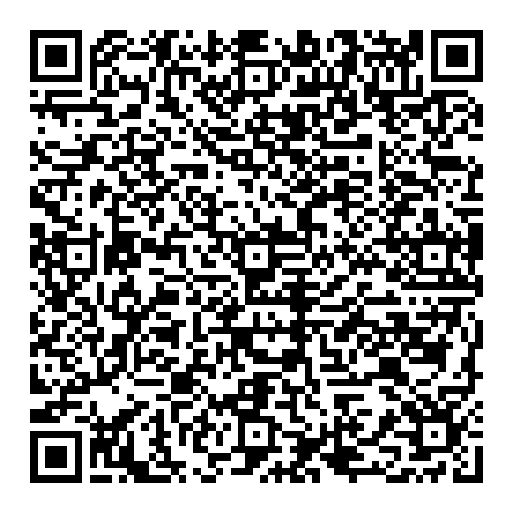
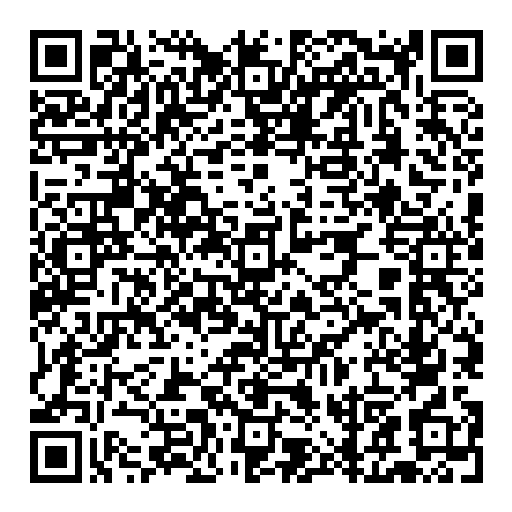
Fix WhatsApp connection based on La Frappe implementation, plus media upload & broadcast fixes

Changed region(s): [[0.0312, 0.0625, 0.9688, 0.9688]]

diff --git a/channels/WhatsAppSessionChannel.js b/channels/WhatsAppSessionChannel.js
@@ -1,36 +1,6 @@
-let Baileys;
-let makeWASocket;
-let useMultiFileAuthState, DisconnectReason, jidDecode, fetchLatestBaileysVersion, downloadMediaMessage;
-
-async function loadBaileys() {
-    if (Baileys) return;
-    const mod = await import('@whiskeysockets/baileys');
-    
-    // Check all possible places
-    console.log('[WA-Debug] Root keys count:', Object.keys(mod).length);
-    if (mod.default) console.log('[WA-Debug] Default keys count:', Object.keys(mod.default).length);
-    
-    // Find where the exported functions are
-    let target = null;
-    if (mod.useMultiFileAuthState) {
-        target = mod;
-    } else if (mod.default && mod.default.useMultiFileAuthState) {
-        target = mod.default;
-    } else {
-        // Fallback to searching in all keys if necessary or using the root
-        target = mod;
-    }
-    
-    Baileys = target;
-    makeWASocket = target.default || target;
-    useMultiFileAuthState = target.useMultiFileAuthState;
-    DisconnectReason = target.DisconnectReason;
-    jidDecode = target.jidDecode;
-    fetchLatestBaileysVersion = target.fetchLatestBaileysVersion;
-    downloadMediaMessage = target.downloadMediaMessage;
-    
-    console.log('[WA-Debug] useMultiFileAuthState type:', typeof useMultiFileAuthState);
-}
+const Baileys = require('@whiskeysockets/baileys');
+const makeWASocket = Baileys.default || Baileys;
+const { useMultiFileAuthState, DisconnectReason, jidDecode, fetchLatestBaileysVersion, downloadMediaMessage } = Baileys;
 
 
 const { Channel } = require('./Channel');
@@ -46,7 +16,6 @@ class WhatsAppSessionChannel extends Channel {
     constructor(config) {
         super('whatsapp', 'WhatsApp (Session)');
         this.sessionId = config.sessionId || 'default';
-        this.pairingNumber = config.pairingNumber || null;
         this.authFolder = path.resolve(process.cwd(), 'sessions', this.sessionId);
         this.sock = null;
         this.messageHandler = null;
@@ -54,7 +23,6 @@ class WhatsAppSessionChannel extends Channel {
     }
 
     async initialize() {
-        await loadBaileys();
         const sessionsDir = path.join(process.cwd(), 'sessions');
         if (!fs.existsSync(sessionsDir)) {
             fs.mkdirSync(sessionsDir, { recursive: true });
@@ -88,26 +56,11 @@ class WhatsAppSessionChannel extends Channel {
             version,
             auth: state,
             logger: pino({ level: 'silent' }),
-            browser: ['TIM', 'Chrome', '121.0.6167.85'], // Plus moderne
+            browser: ['Ubuntu', 'Chrome', '20.0.04'],
             printQRInTerminal: false
         });
 
-        // Request pairing code if requested and not registered
-        if (this.pairingNumber && !this.sock.authState.creds.registered) {
-            const cleanNumber = this.pairingNumber.replace(/\D/g, '');
-            console.log(`[WA] Requesting pairing code for ${cleanNumber}...`);
-            setTimeout(async () => {
-                try {
-                    const code = await this.sock.requestPairingCode(cleanNumber);
-                    console.log('\n--------------------------------------------------');
-                    console.log('🔑 VOTRE NOUVEAU CODE DE CONNEXION WHATSAPP :');
-                    console.log(`👉 ${code}`);
-                    console.log('--------------------------------------------------\n');
-                } catch (err) {
-                    console.error('❌ Erreur lors de la requête du code:', err.message);
-                }
-            }, 5000); // Augmenté un peu pour laisser la connexion se stabiliser
-        }
+        // No pairing code requested anymore to prioritize QR
 
 
         // this.store.bind(this.sock.ev); // Removed store bind

diff --git a/services/broadcast.js b/services/broadcast.js
@@ -59,7 +59,8 @@ async function broadcastMessage(platform, message, options = {}) {
     // 1. Upload des nouveaux médias vers Supabase Storage
     const normalizedExistingUrls = existingUrls.map(u => typeof u === 'string' ? { url: u, type: (u.match(/\.(mp4|mov|avi|wmv)$/) ? 'video' : 'photo') } : u);
     const unifiedMediaList = [...normalizedExistingUrls];
-    const { supabase } = require('../config/supabase');
+    const { uploadMediaBuffer } = require('./database');
+    
     for (let f of mediaFiles) {
         try {
             const extension = f.mimetype.includes('video') ? 'mp4' : (f.mimetype.includes('png') ? 'png' : 'jpg');
@@ -71,15 +72,16 @@ async function broadcastMessage(platform, message, options = {}) {
                 fileBuffer = fs.readFileSync(f.tempFilePath);
             }
 
-            const { error } = await supabase.storage.from('uploads').upload(finalPath, fileBuffer, {
-                contentType: f.mimetype,
-                upsert: true
-            });
-            if (!error) {
-                const { data: publicData } = supabase.storage.from('uploads').getPublicUrl(finalPath);
-                unifiedMediaList.push({ url: publicData.publicUrl, type: f.mimetype.includes('video') ? 'video' : 'photo' });
+            if (!fileBuffer || fileBuffer.length === 0) {
+                debugLog(`[BC-UPLOAD-SKIP] Buffer vide pour ${f.name}`);
+                continue;
+            }
+
+            const publicUrl = await uploadMediaBuffer(fileBuffer, finalPath, f.mimetype);
+            if (publicUrl) {
+                unifiedMediaList.push({ url: publicUrl, type: f.mimetype.includes('video') ? 'video' : 'photo' });
             } else {
-                debugLog(`[BC-UPLOAD-WARN] Supabase error: ${error.message}. Fallback to buffer.`);
+                debugLog(`[BC-UPLOAD-WARN] Pas d'URL retournée pour ${f.name}. Fallback to buffer.`);
                 unifiedMediaList.push({ source: fileBuffer, filename: f.name, type: f.mimetype.includes('video') ? 'video' : 'photo' });
             }
         } catch (e) {

diff --git a/services/database.js b/services/database.js
@@ -1140,7 +1140,12 @@ const SETTINGS_DEFAULTS = {
     payment_modes: '💵 Espèces',
     maintenance_mode: false,
     maintenance_message: '🔧 <b>Le bot est actuellement en maintenance.</b>\n\nNous revenons bientôt !\n\nContactez l\'admin : @Lejardinidf',
-    maintenance_contact: 'https://t.me/Lejardinidf'
+    maintenance_contact: 'https://t.me/Lejardinidf',
+    btn_back_menu: '◀ Retour Menu',
+    btn_back_menu_nav: '◀ Retour Menu',
+    msg_order_confirmed_client: '',
+    enable_abandoned_cart_notifications: false,
+    msg_abandoned_cart: ''
 };
 
 let _settingsCache = null;
@@ -1454,7 +1459,7 @@ module.exports = {
     getGlobalStats, getDailyStats, getStatsOverview, getAppSettings, updateAppSettings, getClientActiveOrders,
     getProducts, saveProduct, deleteProduct, setLivreurAvailability,
     getAvailableLivreurs, getAllLivreurs, getOrderAnalytics, saveUserLocation, addMessageToTrack, getLastMenuId, getLivreurOrders, getLivreurHistory, getOrdersByUser, getDetailedLivreurActivity, saveFeedback, setPendingFeedback, getAndClearPendingFeedback, nukeDatabase,
-    saveReview, getReviews, getPublicReviews, deleteReview, uploadMediaFromUrl,
+    saveReview, getReviews, getPublicReviews, deleteReview, uploadMediaFromUrl, uploadMediaBuffer,
     incrementChatCount, saveClientReply, logHelpRequest,
     getUpcomingPlannedOrders, markNotifSent, registerUser, addToStat,
     _userCache
